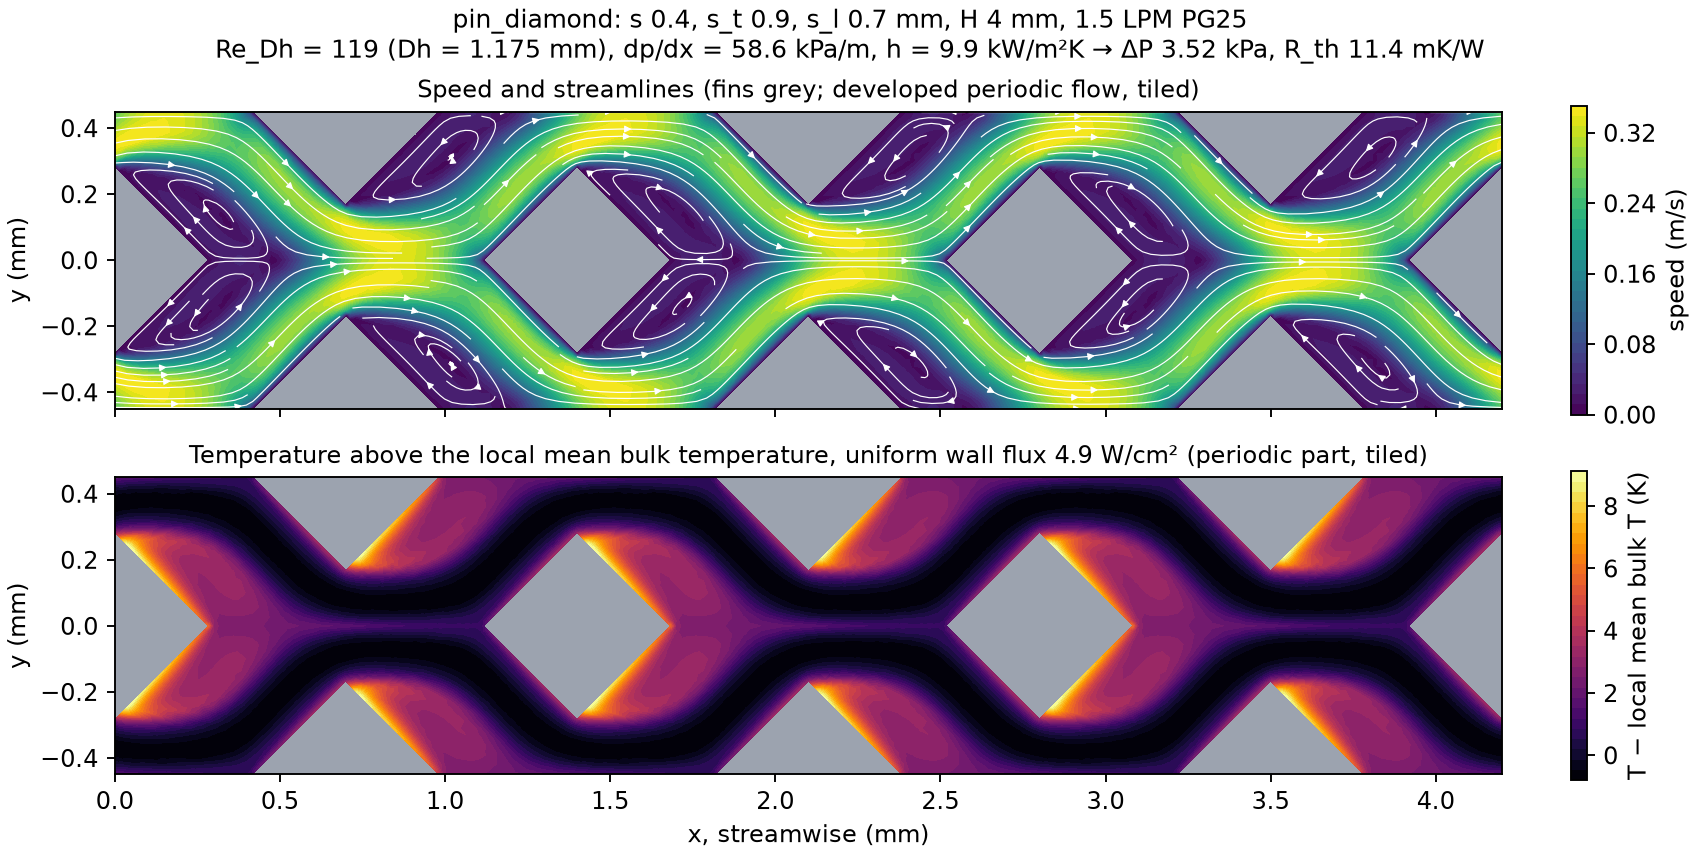
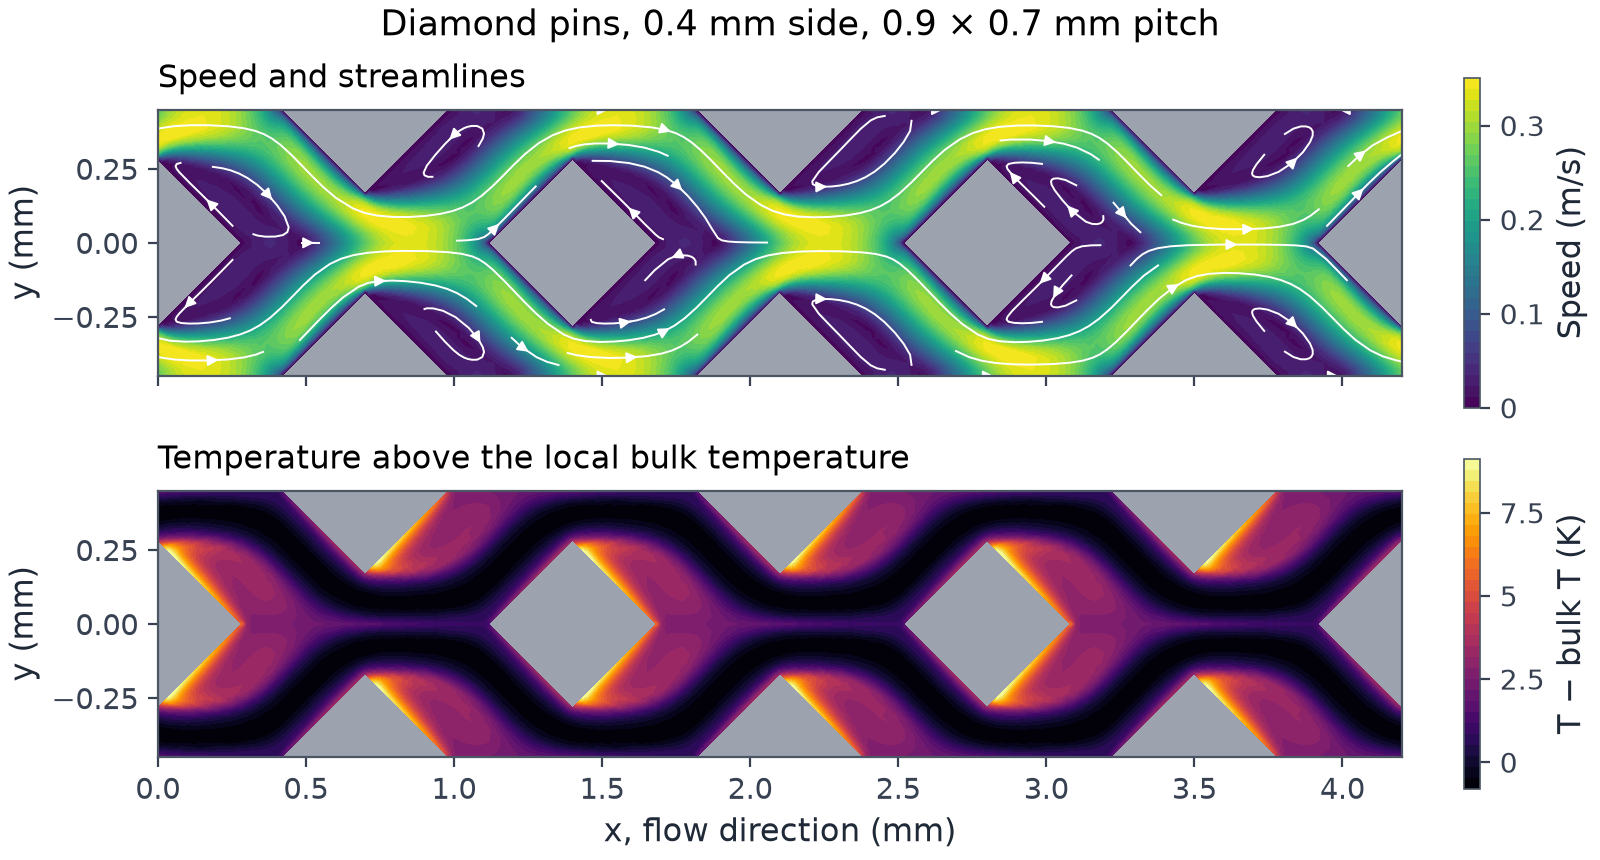
examples: regenerate figures and captions with the shared style
No numeric result changed: every results.json is byte-identical; report.md and summary.md
differ only in figure references and captions.

diff --git a/examples/output/level2_planview/summary.md b/examples/output/level2_planview/summary.md
@@ -4,6 +4,14 @@ Requirements (SPEC Amendment 3): ΔP ≤ 5 kPa, threshold R_th ≤ 20 mK/W (must
 
 Rule: from the lowest-ΔP point of the eligible front (within budget and threshold), move to the nearest further point whose return e = −ln(R_j/R_i) / ln(ΔP_j/ΔP_i) is at least the cut-off; stop when none is. Capacity = threshold × heat load / R_th; kW per pumping W = heat load / (ΔP × flow). Both ratios always favour the lowest ΔP inside the window, which is why they are reported and not used to choose.
 
+![Pareto front of each fin planform](pareto_topologies.png)
+
+Each line is one planform's Pareto front over its eligible designs, at 1.5 LPM PG25 at 40 °C, 1 kW over 60 × 60 mm, copper, 2 mm base, features and gaps ≥ 0.15 mm, H / t ≤ 10 and H / gap ≤ 10. The ring marks the design the rule picks across all planforms. Not drawn: designs off the fronts, and the 36 designs excluded because their fins are taller than 10 × the narrowest gap. Shading: within the budget and the threshold (light), within the budget and the objective (darker). The model is 2D Navier-Stokes in the plane of the fin layer (tall-fin limit, developed periodic flow) plus a resistance network. It has no floor or cover: on straight fins it reads ΔP 7% and R_th 6% below the Level 1 cross-section CFD, so a gap between planforms smaller than that is not resolved.
+
+![Each fin planform against straight fins](pareto_topologies_panels.png)
+
+One panel per planform: its eligible designs (markers) and Pareto front in colour, the straight-fin front in grey, and the planform's own pick (ring). Faint hollow markers are designs of that planform excluded by H / gap > 10. Same axes, budget, threshold and objective in every panel.
+
 ## Per topology
 
 | Topology | Eligible / converged | Excluded (H/gap > 10) | Pick | R_th (mK/W) | ΔP (kPa) | Objective met | Capacity (kW) | kW per kPa | kW per pumping W |
@@ -115,3 +123,31 @@ Pick: `pin_circle_d0400_s_t0800_s_l0900_h_fin4000` (Pins, circular), 12.65 mK/W 
 | `pin_diamond_s0400_s_t0900_s_l0900_h_fin4000` | H / min gap = 4 / 0.334 = 12.0 > 10 |
 | `pin_diamond_s0400_s_t1100_s_l0500_h_fin4000` | H / min gap = 4 / 0.342 = 11.7 > 10 |
 | `pin_diamond_s0300_s_t0600_s_l0450_h_fin3000` | H / min gap = 3 / 0.176 = 17.1 > 10 |
+
+## Field plots
+
+One design per planform, solved as a developed periodic cell and tiled over a few periods; fins are grey. Top: speed with streamlines. Bottom: temperature above the local mean bulk temperature (velocity-weighted) under a uniform wall heat flux, the periodic part only. All at 1.5 LPM PG25. Pin pitch is transverse × streamwise.
+
+![Straight fins, 0.4 mm channels, 0.4 mm fins](fields_straight.png)
+
+Straight fins, 0.4 mm channels, 0.4 mm fins, 4 mm tall: Re_Dh = 121 (Dh = 0.800 mm), dp/dx = 21.8 kPa/m, h = 4.9 kW/m²K, wall flux 3.4 W/cm² → ΔP 1.31 kPa, R_th 13.4 mK/W.
+
+![Sinusoidal fins, 0.4 mm channels, 0.4 mm fins, 0.3 mm amplitude, 2 mm wavelength](fields_sinusoidal.png)
+
+Sinusoidal fins, 0.4 mm channels, 0.4 mm fins, 0.3 mm amplitude, 2 mm wavelength, 4 mm tall: Re_Dh = 133 (Dh = 0.800 mm), dp/dx = 46.4 kPa/m, h = 4.5 kW/m²K, wall flux 3.6 W/cm² → ΔP 2.79 kPa, R_th 14.3 mK/W.
+
+![Zigzag fins, 0.4 mm channels, 0.4 mm fins, 0.3 mm amplitude, 2 mm wavelength](fields_zigzag.png)
+
+Zigzag fins, 0.4 mm channels, 0.4 mm fins, 0.3 mm amplitude, 2 mm wavelength, 4 mm tall: Re_Dh = 124 (Dh = 0.800 mm), dp/dx = 37.3 kPa/m, h = 4.6 kW/m²K, wall flux 3.4 W/cm² → ΔP 2.24 kPa, R_th 13.9 mK/W.
+
+![Offset strip fins, 1 mm long, 0.4 mm thick, 1.2 mm lateral pitch](fields_offset_strip.png)
+
+Offset strip fins, 1 mm long, 0.4 mm thick, 1.2 mm lateral pitch, 4 mm tall: Re_Dh = 129 (Dh = 1.143 mm), dp/dx = 49.9 kPa/m, h = 7.2 kW/m²K, wall flux 4.3 W/cm² → ΔP 2.99 kPa, R_th 12.4 mK/W.
+
+![Circular pins, 0.4 mm diameter, 0.7 × 0.6 mm pitch](fields_pin_circle.png)
+
+Circular pins, 0.4 mm diameter, 0.7 × 0.6 mm pitch, 4 mm tall: Re_Dh = 101 (Dh = 0.937 mm), dp/dx = 57.1 kPa/m, h = 11.3 kW/m²K, wall flux 4.5 W/cm² → ΔP 3.42 kPa, R_th 10.4 mK/W.
+
+![Diamond pins, 0.4 mm side, 0.9 × 0.7 mm pitch](fields_pin_diamond.png)
+
+Diamond pins, 0.4 mm side, 0.9 × 0.7 mm pitch, 4 mm tall: Re_Dh = 119 (Dh = 1.175 mm), dp/dx = 58.6 kPa/m, h = 9.9 kW/m²K, wall flux 4.9 W/cm² → ΔP 3.52 kPa, R_th 11.4 mK/W.

diff --git a/examples/output/gpu_coldplate/report.md b/examples/output/gpu_coldplate/report.md
@@ -26,7 +26,7 @@ Reference designs (CFD-verified, within budget):
 
 ![Pareto](pareto.png)
 
-The plot shows the region of interest only: ΔP from 0.3 kPa to 1.5× the budget, R_th from 0.7× the lowest feasible value to 1.5× the threshold. Designs outside it are screened but not drawn. Light shading: meets the budget and the threshold; darker: meets the budget and the objective.
+Thermal resistance against channel pressure drop at the rated 1.5 LPM. Grey dots: every feasible design from the 1D screen; dark line: its Pareto front; blue: the designs solved with 2D conjugate CFD; ring: the recommended design. The plot shows the region of interest only: ΔP from 0.3 kPa to 1.5× the budget, R_th from 0.7× the lowest feasible value to 1.5× the threshold. Designs outside it are screened but not drawn. Light shading: meets the budget and the threshold; darker: meets the budget and the objective.
 
 ## Flow sensitivity of the recommended design
 
@@ -43,6 +43,8 @@ The 1D screen evaluated 672 designs (258 feasible) in 3 ms. 8 designs spread alo
 - ΔP: identical to within 0.03%. This is expected, not a result: both models assume fully developed flow and share the same f·Re.
 
 ![Parity](parity.png)
+
+R_th from the 1D screen against the 2D conjugate CFD for each solved design, coloured by the 1D fin efficiency; the band is ±5%.
 
 Ratios (CFD): Capacity = threshold × heat load / R_th, the heat load the design could carry at the threshold rise (base-to-inlet rise of threshold × heat load, 20 K here); capacity per kPa = capacity / ΔP; kW per pumping W = heat load / (ΔP × volumetric flow), using hydraulic power. Both ratios always favour the lowest ΔP inside the window, which is why they are reported and not used to choose.
 
@@ -77,6 +79,8 @@ Mesh study on `w0422_t0444_h4000_q150`:
 | 16 | 71883 | 14.9283 | 1.2942 |
 
 ![Fields](fields_recommended.png)
+
+Recommended design at 1.5 LPM PG25: axial velocity (left; copper in brown) and temperature at mid-length (right) on the cross-section, mirrored to show three channels. Re = 119, ΔP = 1.29 kPa, R_th = 14.9 mK/W.
 
 ## Inputs
 - Heat load 1000 W, uniform over 60 × 60 mm; 2.0 mm base, k = 390 W/m·K.
